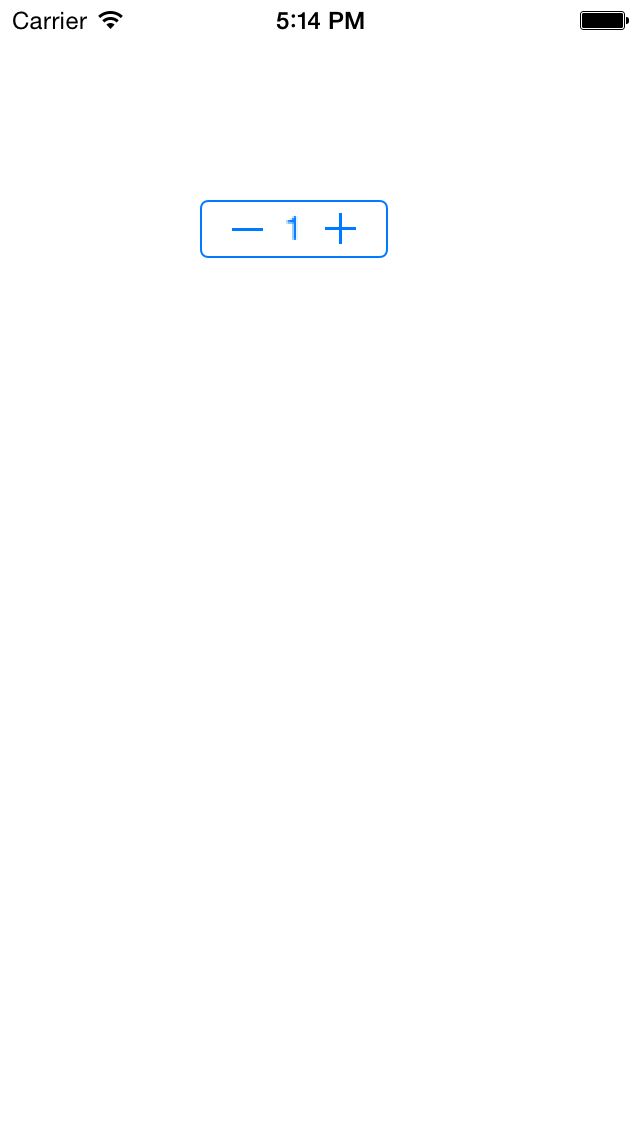
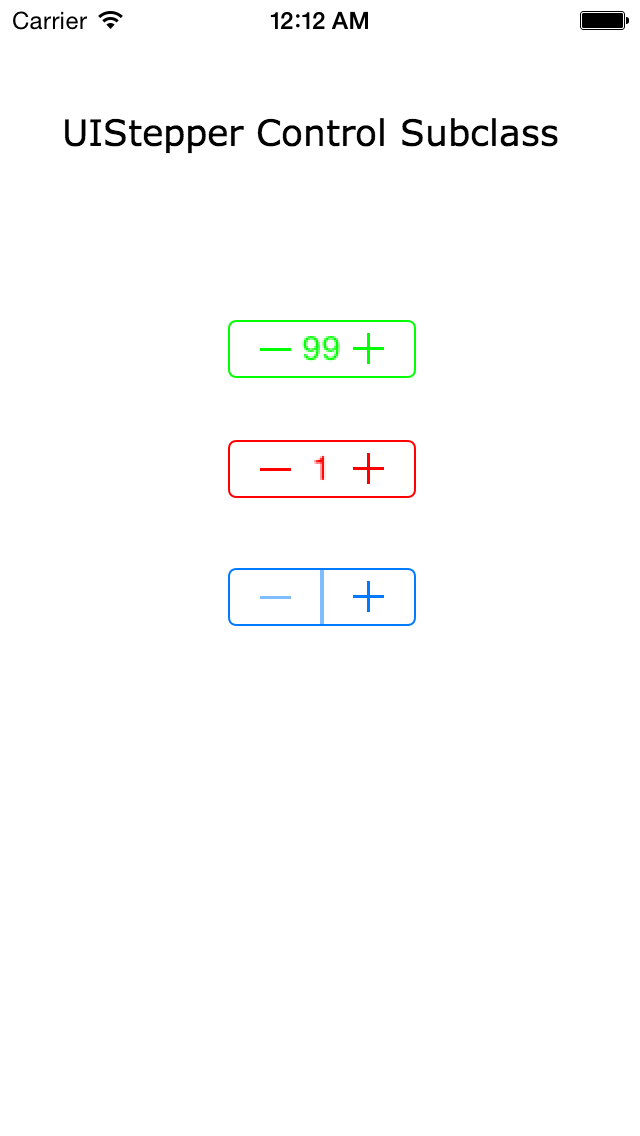
fixed issue with tint color, code clean up

diff --git a/Classes/SAStepperControl.m b/Classes/SAStepperControl.m
@@ -24,8 +24,8 @@
         self.label = [[UILabel alloc] initWithFrame:CGRectMake(0,
                                                                0,
                                                                30,
-                                                               29)];
-        
+                                                               CGRectGetHeight(self.frame))];
+
         self.label.textAlignment = NSTextAlignmentCenter;
         self.label.textColor = self.tintColor;
         self.label.adjustsFontSizeToFitWidth = YES;
@@ -52,7 +52,7 @@
             
         }
         
-        self.label.text = @"";
+        self.label.text = nil;
         [self.label addSubview:dividerContainer];
         
         return [self imageFromView:self.label];
@@ -64,13 +64,22 @@
     }
     
     self.label.text = [NSNumber numberWithDouble:self.value].stringValue;
+
     return [self imageFromView:self.label];
+}
+
+- (void)tintColorDidChange {
+    [super tintColorDidChange];
+    self.label.textColor = self.tintColor;
+
+    [self setDividerImage:[self imageFromView:self.label] forLeftSegmentState:UIControlStateNormal rightSegmentState:UIControlStateNormal];
+
 }
 
 
 #pragma mark - UIImage
 - (UIImage *)imageFromView:(UIView *)view {
-    UIGraphicsBeginImageContext(view.frame.size); // CGSizeMake(30, 29)
+    UIGraphicsBeginImageContext(view.frame.size);
 
     [view.layer renderInContext:UIGraphicsGetCurrentContext()];
     UIImage *viewImage = UIGraphicsGetImageFromCurrentImageContext();

diff --git a/Example/SAStepperControlDemo/SAStepperControl/SAViewController.m b/Example/SAStepperControlDemo/SAStepperControl/SAViewController.m
@@ -16,13 +16,18 @@
 @implementation SAViewController
 
 #pragma mark -
-- (void)viewDidLoad
-{
+#pragma mark - class method
+- (void)viewDidLoad {
     [super viewDidLoad];
-    
-    SAStepperControl *stepperControl = [[SAStepperControl alloc] initWithFrame:CGRectMake(100, 100, 0, 0)];
+
+    // init SAStepperControl & add to View.
+    SAStepperControl *stepperControl = [[SAStepperControl alloc] initWithFrame:CGRectMake(self.view.center.x - 46,
+                                                                                          self.view.center.y,
+                                                                                          0,
+                                                                                          0)];
+
     [self.view addSubview:stepperControl];
-    
+
 }
 
 

diff --git a/Classes/SAStepperControl.h b/Classes/SAStepperControl.h
@@ -10,4 +10,5 @@
 
 @interface SAStepperControl : UIStepper
 
+
 @end
